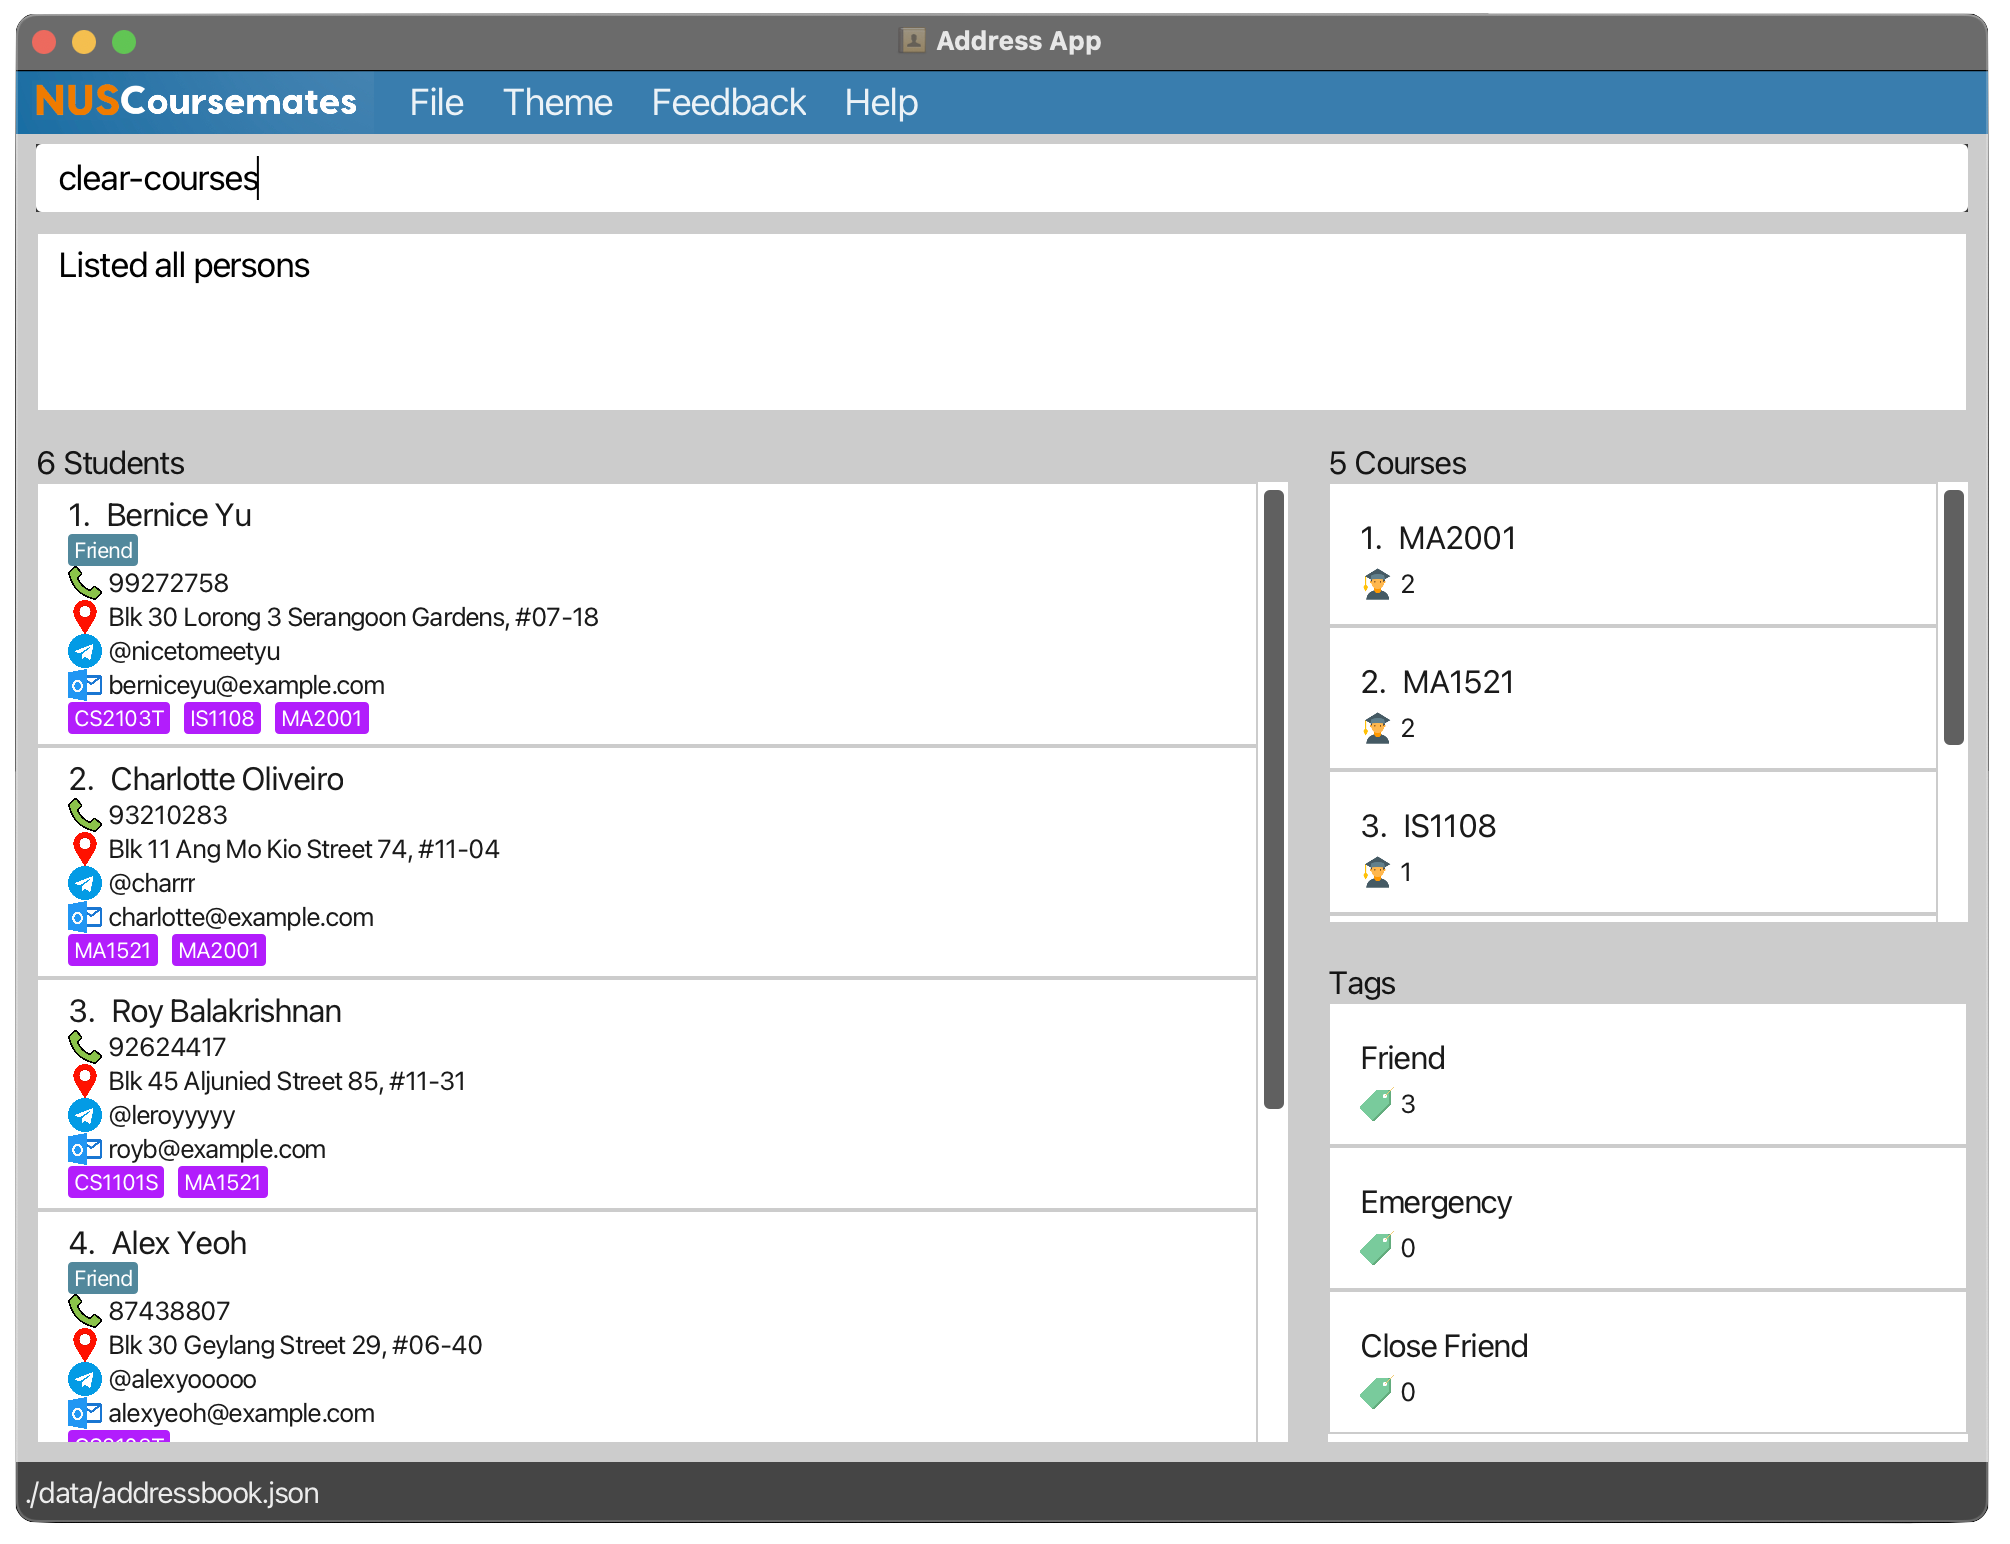
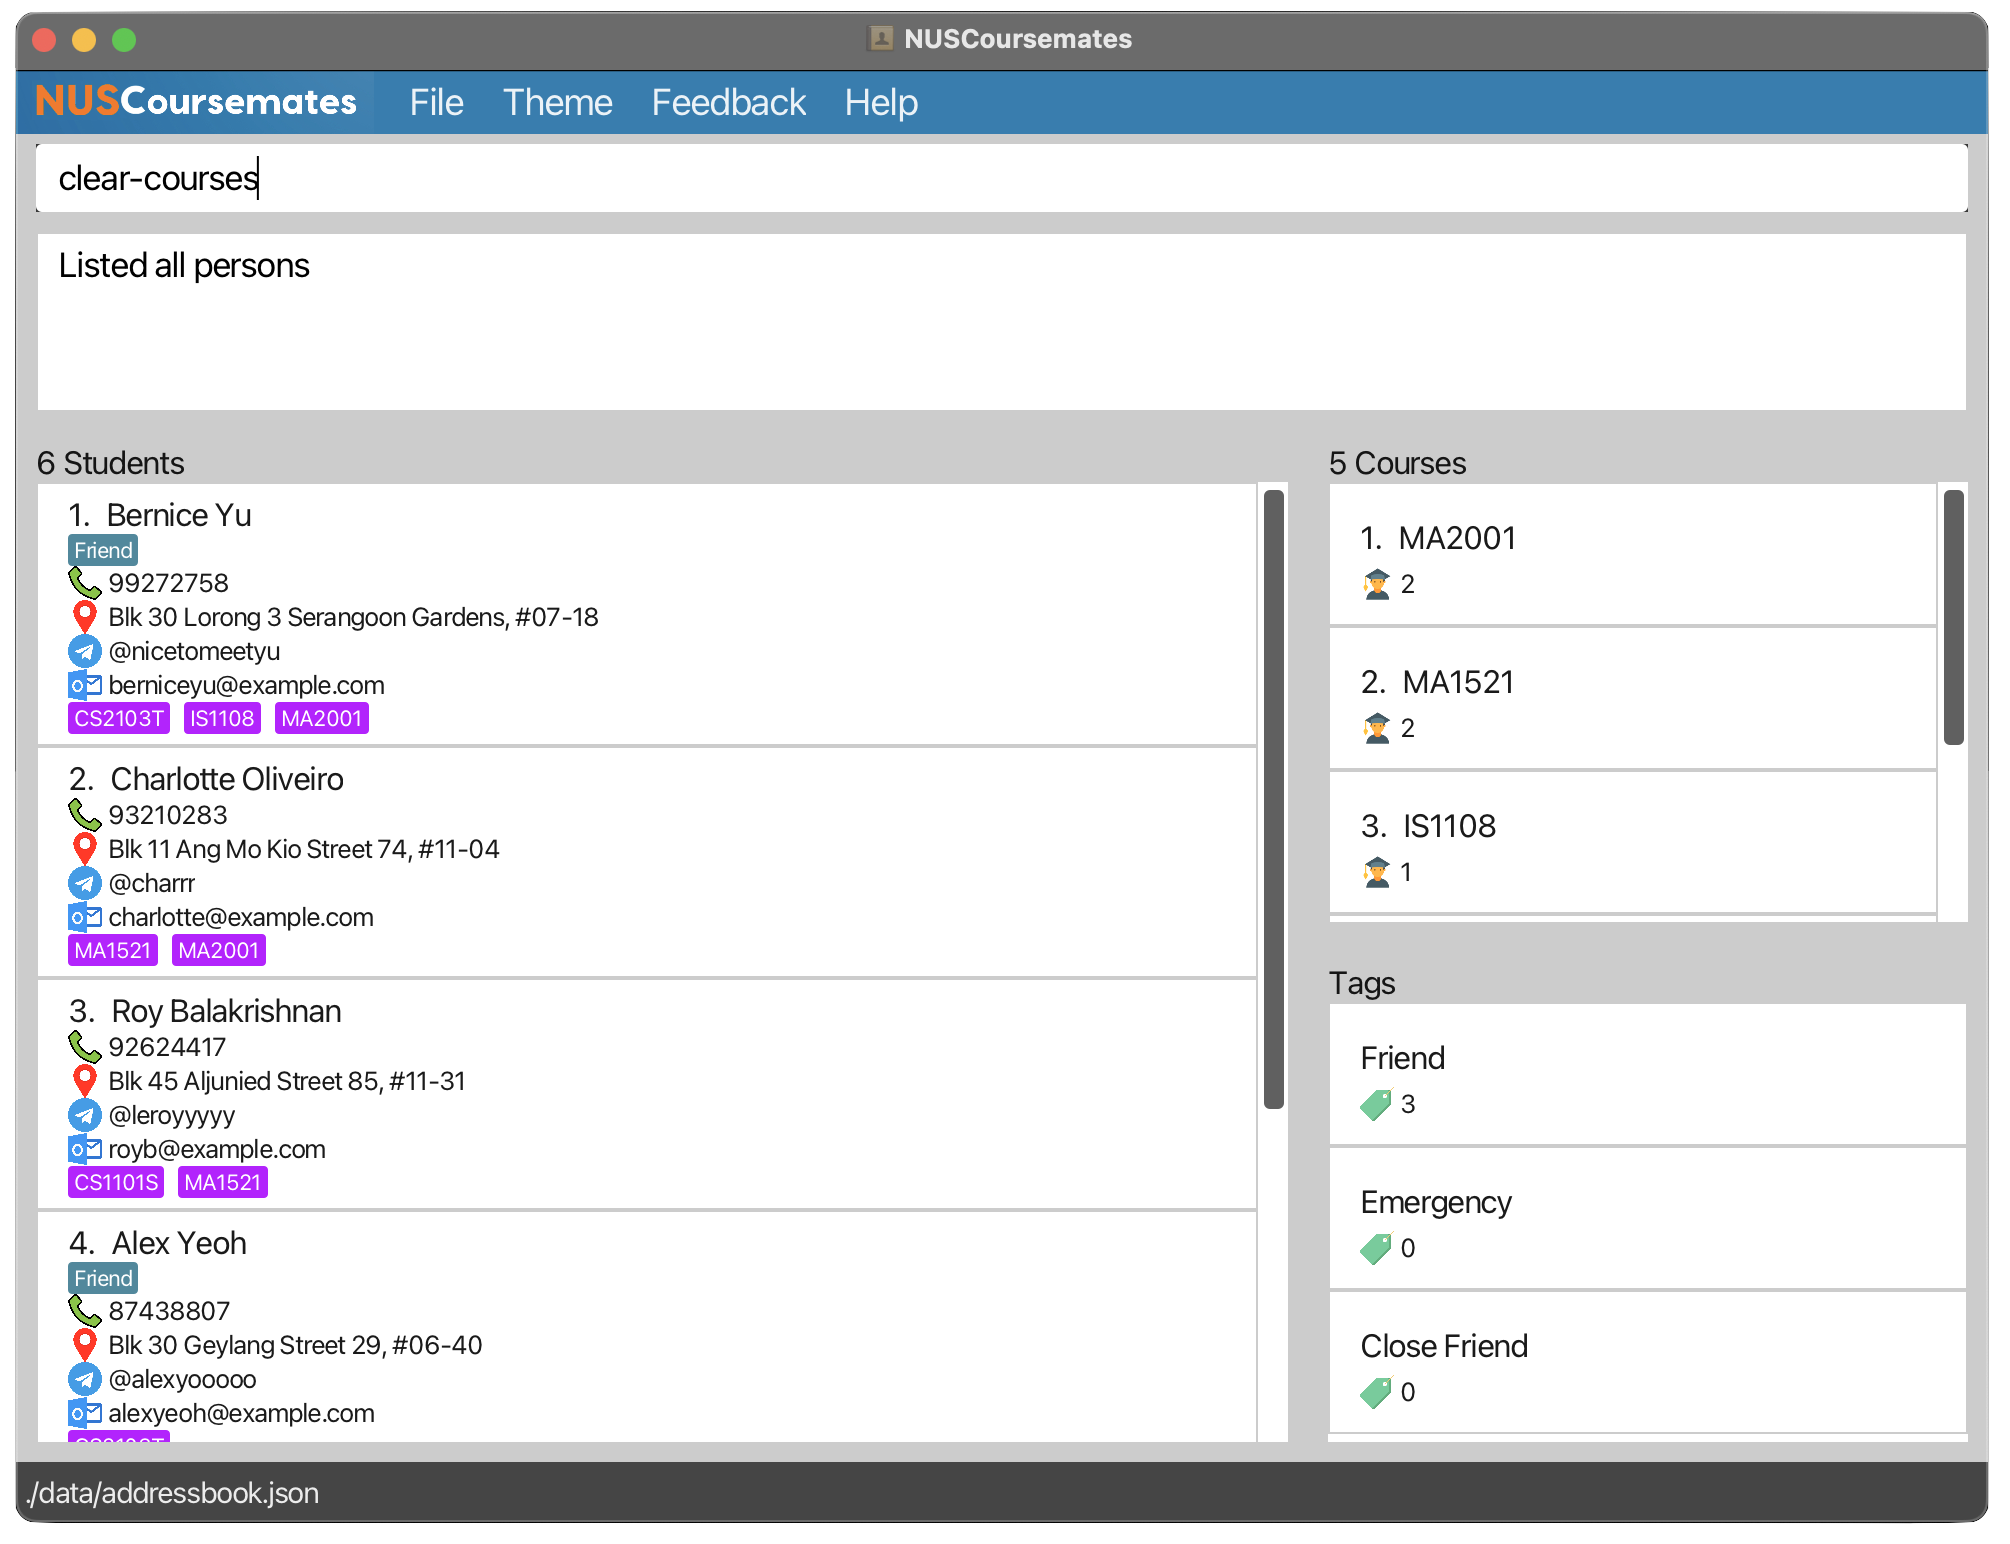
Update UG and DG UG: - Update all the images to new header - Amend table in Add feature
DG:
- Add Theme Feature implementation

diff --git a/docs/UserGuide.md b/docs/UserGuide.md
@@ -115,6 +115,12 @@ You will be able to view each student's details such as:
 * Courses
 * Tags
 
+<div markdown="block" class="alert alert-info">
+
+**:information_source: Notes:**<br>
+* Text that exceeds the UI boundaries will be truncated and not wrapped.
+</div>
+
 ### 5. Course List Panel
 <img src="images/CourseListPanel.png" alt="CourseListPanel" width="400"/>
 
@@ -292,15 +298,15 @@ Format: `add n/NAME p/PHONE_NUMBER [e/EMAIL] [a/ADDRESS] [th/TELEHANDLE] [t/TAG]
 
 #### Input Table
 
-| Field        | Valid Input(s)                                                               | Invalid Input(s)                   | Required? | Case sensitive? | Requirement(s)                                                                                                                                                                                                                                                                                                                                                            |
-|--------------|------------------------------------------------------------------------------|------------------------------------|-----------|-----------------|---------------------------------------------------------------------------------------------------------------------------------------------------------------------------------------------------------------------------------------------------------------------------------------------------------------------------------------------------------------------------|
-| Name         | Alex the 3rd, John Doe                                                       | (Empty)                            | Yes       | Yes             | The name must not already exist in the address book.                                                                                                                                                                                                                                                                                                                      |
-| Phone Number | 98765432, 9888889989898                                                      | ABC123                             | Yes       | -               | At least 3 digits.                                                                                                                                                                                                                                                                                                                                                        |
-| Email        | john@eg.com                                                                  | joe@g                              | No        | Yes             | Format: local-part@domain-name <br/> - local-part must: <br/> &nbsp;&nbsp;1. Contain alphanumeric characters or these special characters: +, _, ., -. <br/> &nbsp;&nbsp;2. Not start or end with any special characters. <br/> - domain-name must: <br/> &nbsp;&nbsp; 1. Be at least 2 characters long. <br/> &nbsp;&nbsp; 2. Begin and end with alphanumeric characters. |
-| Address      | 123 Main St                                                                  |                                    | No        | Yes             | N.A.                                                                                                                                                                                                                                                                                                                                                                      |
-| Telehandle   | @johndoe, @a12                                                               | @111, @!@#$@#$, johndoe, @john doe | No        | Yes             | Must start with a "@". The first character preceding the "@" cannot be a number. It should consist of letters, numbers, and underscores only. No other special characters are allowed.                                                                                                                                                                                    |
-| Tag          | friend, close friend, cf, emergency, Friend, frIend, close fRiend, EMERGENCY | Colleague, Lecturer, Family        | No        | No              | - Only 3 types of tags are accepted:<br/>1. Friend ("friend") <br/>2. Close Friend ("close friend" or "cf") <br/>3. Emergency ("emergency") <br/> - A maximum of two contacts be can be designated as emergency contacts.                                                                                                                                                 |
-| Course       | CS2101, MA2001                                                               | CS2103X, CS9999                    | No        | No              | A course is deemed valid if it is offered in either [NUSMods](https://nusmods.com/courses?sem[0]=1&sem[1]=2) 2023/2024 Sem 1 or Sem 2. Courses offered in Special Term (ST) 1 or 2 are not considered valid.                                                                                                                                                              |
+| Field        | Valid Input(s)                                                               | Invalid Input(s)                   | Case-sensitive? | Requirement(s)                                                                                                                                                                                                                                                                                                                                                            |
+|--------------|------------------------------------------------------------------------------|------------------------------------|-----------------|---------------------------------------------------------------------------------------------------------------------------------------------------------------------------------------------------------------------------------------------------------------------------------------------------------------------------------------------------------------------------|
+| Name         | Alex the 3rd, John Doe                                                       | (Empty)                            | Yes             | The name must not already exist in the address book.                                                                                                                                                                                                                                                                                                                      |
+| Phone Number | 98765432, 5136850137                                                         | ABC123                             | -               | At least 3 digits.                                                                                                                                                                                                                                                                                                                                                        |
+| Email        | john@eg.com                                                                  | joe@g                              | Yes             | Format: local-part@domain-name <br/> - local-part must: <br/> &nbsp;&nbsp;1. Contain alphanumeric characters or these special characters: +, _, ., -. <br/> &nbsp;&nbsp;2. Not start or end with any special characters. <br/> - domain-name must: <br/> &nbsp;&nbsp; 1. Be at least 2 characters long. <br/> &nbsp;&nbsp; 2. Begin and end with alphanumeric characters. |
+| Address      | 123 Main St                                                                  |                                    | Yes             | N.A.                                                                                                                                                                                                                                                                                                                                                                      |
+| Telehandle   | @johndoe, @a12                                                               | @111, @!@#$@#$, johndoe, @john doe | Yes             | Must start with a "@". The first character preceding the "@" cannot be a number. It should consist of letters, numbers, and underscores only. No other special characters are allowed.                                                                                                                                                                                    |
+| Tag          | friend, close friend, cf, emergency, Friend, frIend, close fRiend, EMERGENCY | Colleague, Lecturer, Family        | No              | - Only 3 types of tags are accepted:<br/>1. Friend ("friend") <br/>2. Close Friend ("close friend" or "cf") <br/>3. Emergency ("emergency") <br/> - A maximum of two contacts be can be designated as emergency contacts.                                                                                                                                                 |
+| Course       | CS2101, MA2001                                                               | CS2103X, CS9999                    | No              | A course is deemed valid if it is offered in either [NUSMods](https://nusmods.com/courses?sem[0]=1&sem[1]=2) 2023/2024 Sem 1 or Sem 2. Courses offered in Special Term (ST) 1 or 2 are not considered valid.                                                                                                                                                              |
 
 Examples:
 * `add n/John Doe p/81234567 e/John@gmail.com a/123 NUS Rd th/@johnny t/close friend c/CS1231S c/CS2103T`
@@ -733,8 +739,9 @@ NUSCoursemates data is saved in the hard disk automatically after any command th
 
 NUSCoursemates data are saved automatically as a JSON file `[JAR file location]/data/addressbook.json`. Advanced users are welcome to update data directly by editing that data file.
 
-<div markdown="span" class="alert alert-warning">:exclamation: **Caution:** <br>
+<div markdown="block" class="alert alert-warning">
 
+**:exclamation: Caution:** <br>
 * If your changes to the data file makes its format invalid, NUSCoursemates will discard all data and start with an empty data file at the next run. Hence, it is recommended to take a backup of the file before editing it.
 </div>
 

diff --git a/docs/DeveloperGuide.md b/docs/DeveloperGuide.md
@@ -606,6 +606,55 @@ The following activity diagram summarizes what happens when a user executes the 
     * Cons: Lack of Control. There would be lesser control over the structure and organization of feedback compared to a 
       dedicated feedback form.
 
+### 4.9 Theme feature
+
+#### 4.9.1 Implementation
+
+The add course mechanism is facilitated by `ThemeCommand`. It extends `Command` which overrides the following operation:
+* `ThemeCommand#execute():` Changes the Theme of NUSCoursemates
+
+Given below is an example usage scenario and how the theme mechanism behaves at each step.
+
+Step 1. The user will input the theme command along with the desired THEME (Light or Dark).
+
+Step 2. When `Logic` is called upon to execute the command, it will pass it to an `AddressBookParser` object which will call `parseCommand()` which creates a parser `ThemeCommandParser` and uses it to parse the command.
+
+Step 3. This results in a `ThemeCommand` object which is executed by the `LogicManager`.
+
+Step 4. The result of the command execution is encapsulated as a `CommandResult` object which is returned back from `Logic`.
+
+Step 5. The `CommandResult` object will have either `isLight` or `isDark` to be set as `true`. 
+
+Step 6. The `CommandResult` object will be executed which calls the `handleTheme` method in `MainWindow`.
+
+Step 7. The UI will then be updated accordingly to either DARK or LIGHT theme.
+
+The following sequence diagram shows how the add operation works:
+
+![ThemeSequenceDiagram](images/ThemeSequenceDiagram.png)
+
+The following activity diagram summarizes what happens when a user executes the `Feedback` command:
+
+![ThemeActivityDiagram](images/ThemeActivityDiagram.png)
+
+#### 4.9.2 Design considerations:
+
+**Aspect:  Storage medium for the logging of feedback received**
+
+* **Alternative 1 (current choice):** Use Google forms to store feedback of the users.
+    * Pros: Google Forms are quick and easy to set up. No need for extensive development efforts.
+    * Pros: Google Forms are user-friendly, making it simple for app users to submit feedback without any technical knowledge or app-specific requirements.
+    * Pros: Data Organization. Google Forms automatically organize and store feedback responses in a Google Sheets
+      spreadsheet, making it convenient for review and analysis.
+
+    * Cons: Data Security. Storing feedback data on external platforms like Google Forms introduces security and privacy concerns.
+
+* **Alternative 2:** Link to an online forum where users can post feedback.
+    * Pros: Peer Support. In addition to providing feedback, users can help each other by sharing solutions to
+      common issues.
+
+    * Cons: Lack of Control. There would be lesser control over the structure and organization of feedback compared to a
+      dedicated feedback form.
 
 --------------------------------------------------------------------------------------------------------------------
 
